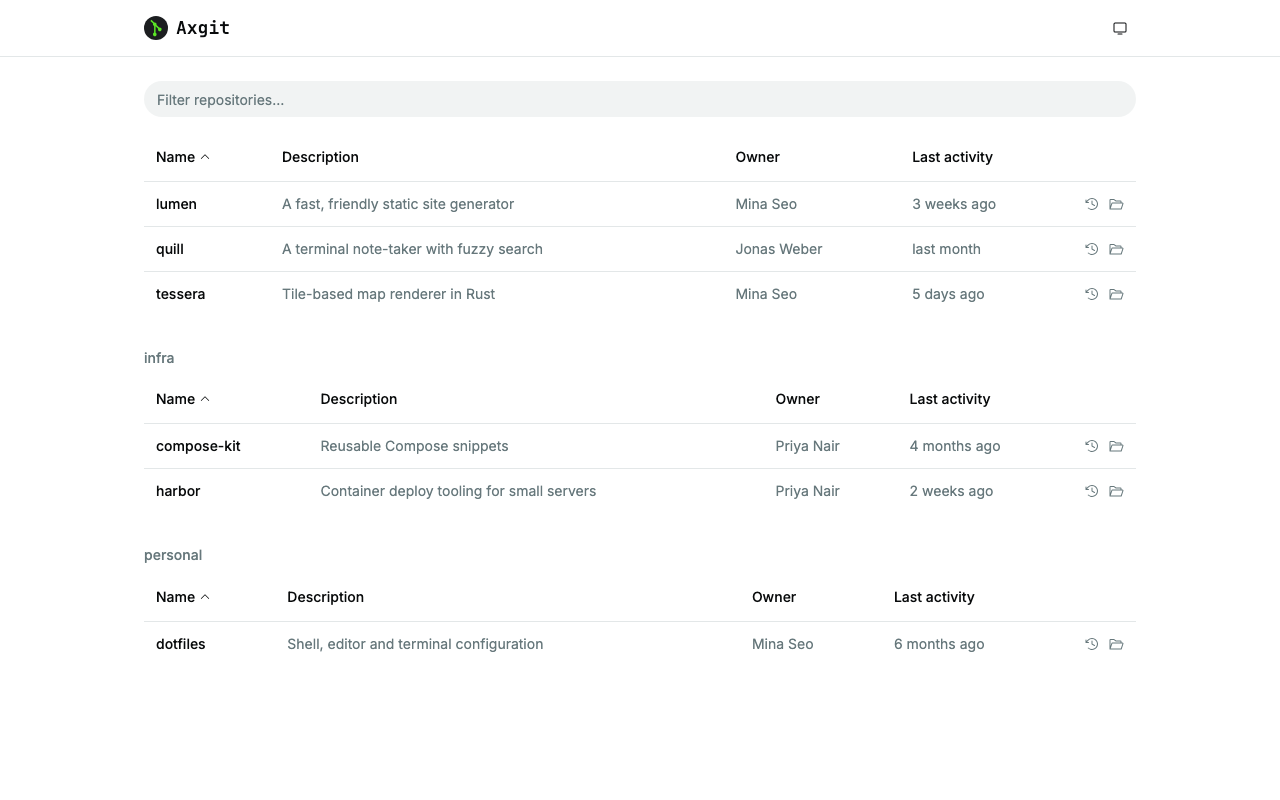
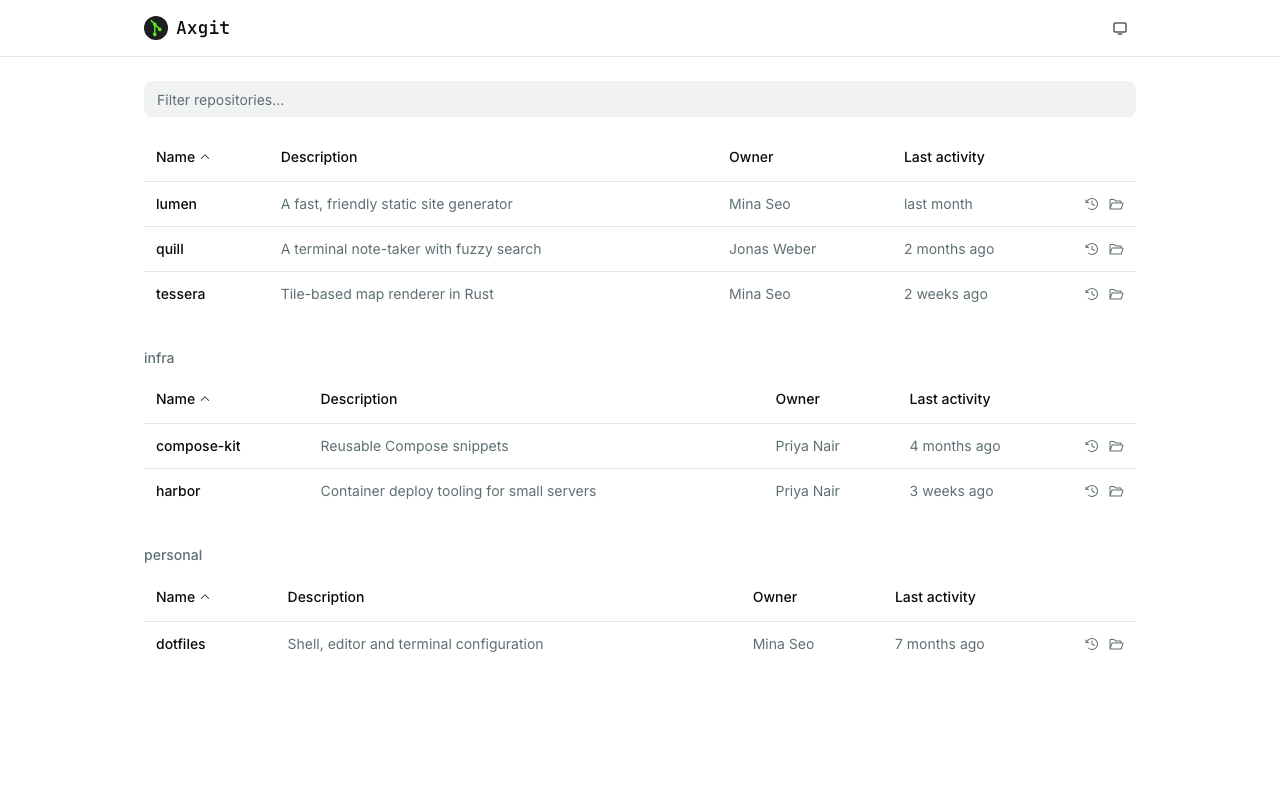
docs: Refresh README screenshots for Patina
Recapture the four README images from make-screenshot-repos.sh's
repositories after the Patina re-baseline (#102): same pages, size and
lossless WebP, with the new tokens, radii and diff tints.

Record the refresh in DECISIONS #99, and correct #102's note on
intra-line diff highlighting: the stacked muted tint is weaker than the
old one, which is a gap to report to Patina.

diff --git a/docs/DECISIONS.md b/docs/DECISIONS.md
@@ -2533,6 +2533,10 @@ Axgit's own `ReadmeMarkdown` (#21) — so the constraint is what all three agree
   takes its destination as an argument and is deterministic. The showcase repository, `lumen`, has
   a branchy history with merges and tags, three authors, a README with a list, table and
   highlighted fences, and a final refactor commit that makes a readable diff.
+- **Refreshed after #102** (the Patina re-baseline) from `make-screenshot-repos.sh`'s output with the
+  recipe below; lossless WebP via sharp (`webp({ lossless: true, effort: 6 })`) when `cwebp` isn't
+  installed — same encoder family, ~143 KB for the four. Relative times ("last month") follow the
+  capture date, as they did before.
 - **Recipe**, so a later UI change can refresh them: 1280x800 viewport; wait for `networkidle`
   plus a second (the README island fetches after load); the diff at `?view=split` on the last
   commit, in a 1280x900 viewport scrolled to the changed-files table; the log in the dark theme
@@ -2641,7 +2645,9 @@ ad hoc (`bg-primary/10`, `bg-[color-mix(…)]`, `bg-green-500/10 dark:bg-green-5
   `primary-muted`; diff lines use `success-muted` / `destructive-muted` and the file-status words use
   `success` / `warning` (the status keeps its word, so it is never colour alone). Intra-line changed
   runs had no token; they reuse the same `*-muted` token, which stacks over the row's identical
-  translucent tint and so reads stronger without computing a colour. `bg-muted/30` and `/50` on
+  translucent tint (~19% against the row's 10%) without computing a colour. That is visibly weaker
+  than the old 30% tint — clear on the red side, subtle on the green one (the README's split-diff
+  shot shows it) — and is a gap to report to Patina: a stronger `*-muted` step for changed runs. `bg-muted/30` and `/50` on
   code chips, `<pre>` blocks and hunk headers became plain `bg-muted`. The hand-styled native
   `<select>`s use `bg-control`; the native submit buttons and the Swap link became Patina's outline
   `Button` / `buttonVariants`.
